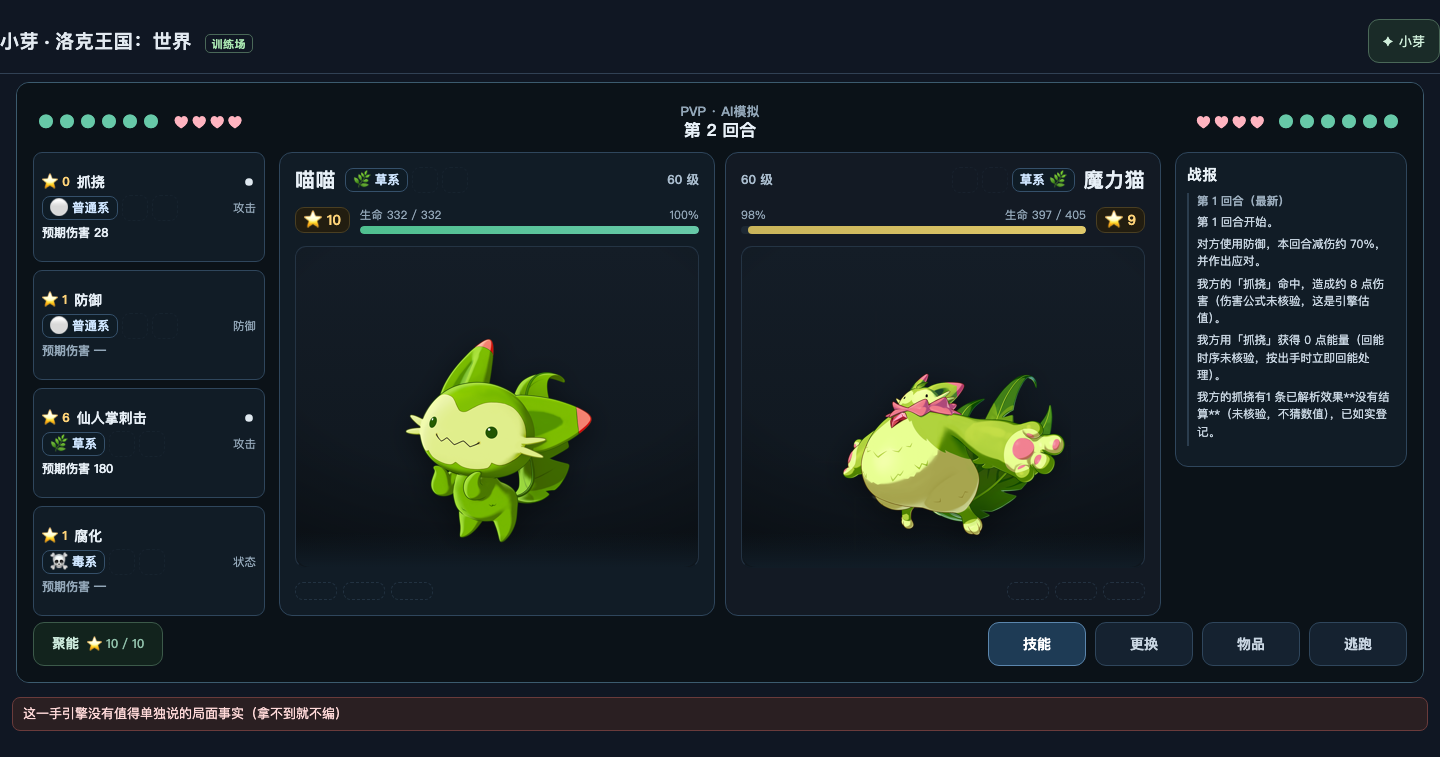
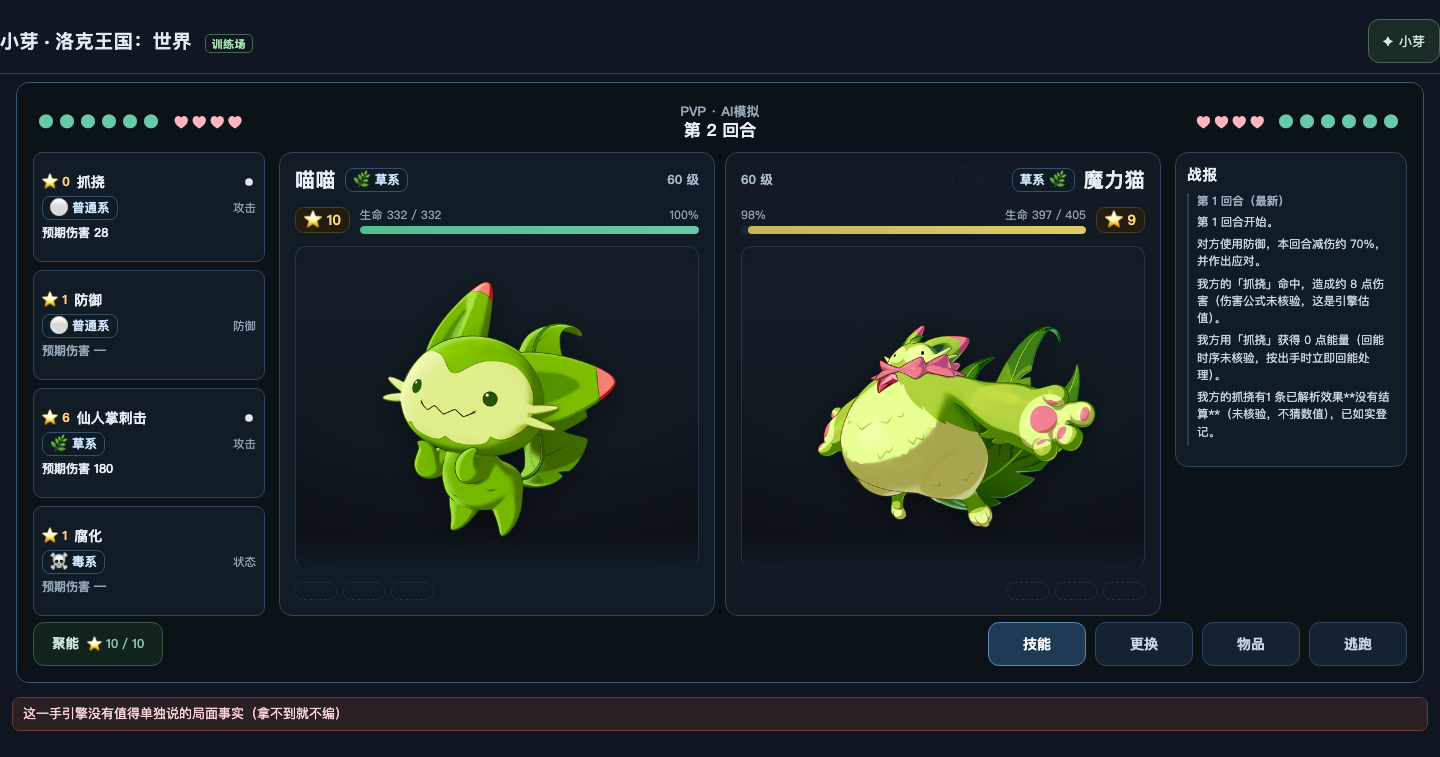
docs(交接): §十六 培养→战斗查实（技能通、性格资质不通）+ 战斗页 512 页面级证据

Changed region(s): [[0.5625, 0.4254, 0.7812, 0.6988], [0.25, 0.3646, 0.4375, 0.7292]]

diff --git a/docs/roadmap/DSH-EXECUTION-STATE.md b/docs/roadmap/DSH-EXECUTION-STATE.md
@@ -13647,3 +13647,37 @@ Codex 第 5 条点的"前后矛盾"消掉。
 **待补验一条（不写成已验）**：六槽 `data-tw-slot-instance` 的真机核验目前只确认了
 「槽 1 = `own-0001`」；**六格全量 + 互不相同**两条还在跑（浏览器锁被队友反复占用，
 用带退避重试的方式排队中）。钩子本身已生效这一点是实测的。
+
+##### 十六、「培养→战斗」查实 + 战斗页 512 页面级证据（2026-09-29 夜，第 4 轮）
+
+**当前版本 `cf03ec9`**。这一轮把目标第 3 项里**唯一还挂着"未验证"的那条链查实了**。
+
+**查明的事实（四条代码级证据）**：
+
+| 事实 | 证据 |
+|---|---|
+| 战斗里的面板**由种族值算出** | `roco/src/roco_env/env.py:146`：`panel = _data.panel_stats(pet.stats)` |
+| 那是**纯函数、只吃种族值** | `roco/src/roco_env/data.py:255`：`def panel_stats(race_stats)` |
+| 引擎里**没有**性格/资质/天分 | `grep -rn "nature\|talent" roco/src/roco_env/*.py` ⇒ **0 命中** |
+| 开局传的是**物种 + 四技能** | `service.py:2298` 起：`team` 是**精灵 id 的数组** |
+
+**而"通"的那条有全量实测**：真正带进对局的是**四个技能** —— battle-smoke 入口侧
+「**配招随入口完整传递 542/542**」。
+
+⇒ 准确表述：**技能通了；性格/资质/天分这条根本没接（不是坏了，是引擎没有这几个概念）**。
+**不是"贯通完成"** —— 这条口径写进了玩家可见文案，也写进了判据。
+
+**改法**：`PANEL_NOTE` 从「…这条链还没验证过」改成「战斗里的数值按**种族值**算…不看性格/资质/天分…
+**真正会带进对局的是这一只的四个技能**」。判据**改钉不删**：旧断言（`/还没验证过/`）原文留档在注释里，
+换成三条更具体的断言（说清"用的不是这一份" + "按什么算" + "谁不进/谁进"），
+**意图一字未变**（不许把培养写成已贯通）。读数 `29/29` + 真机 `42/42 判据 + 27/27 反证`。
+
+**战斗页 512 的页面级证据（`art-finish` 留的最后一条缺口）—— 补上了**：
+真机读战斗页两张立绘的 `img`：
+
+```
+512×512 | /api/roco/sprite?id=pet_000001&name=喵喵&v=default&size=battle
+512×512 | /api/roco/sprite?id=pet_000007&name=魔力猫&v=default&size=battle
+```
+✔ 解码尺寸 = 512×512（战斗档）　✔ `src` 里带 `size=battle`
+截图 `docs/roco/review-2026-09-28/shots/battle/battle-512-page.png`（两张立绘撑满画框，肉眼可见比 256 档清晰）。
